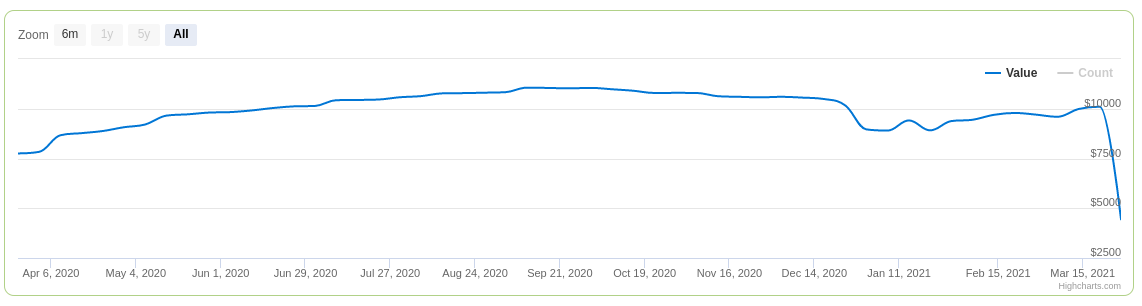
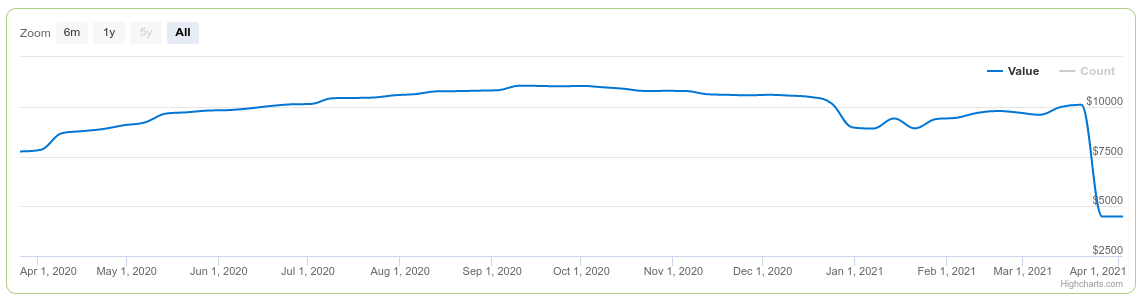
feat: hoarding project goes live

diff --git a/content/posts/20210321-hoarding-project.md b/content/posts/20210321-hoarding-project.md
@@ -1,9 +1,7 @@
 ---
 title: "The Hoarding Project"
 date: 2021-03-21T11:23:11-04:00
-draft: true
 toc: true
-#cover: "img/hoarding-project/emptyspace.jpg"
 description: "In this post, I discuss how I learned to let go of a collection that took its toll on me."
 tags:
   - collecting
@@ -19,10 +17,12 @@ that, I owned 200 musical albums, evenly split between CDs and vinyls discs, and
 
 {{< figure src="/img/hoarding-project/og-shelf.jpeg" position="center" caption="My collection proudly displayed in my first apartment" >}}
 
-When I was 16, if I had seen that picture online, I would have dreamed to live in that bedroom. But life sure
-has its ways. Now that I have experienced the reality of owning all of that stuff, I want to share the story
-of how I realized my collection was bringing me more pain than joy, and how I managed to let it all go (well,
-most of it).
+When I was 16, if I had seen that picture online, I would have dreamed to live in that bedroom. True story, I
+used to watch [John Hancock's Game Room Tours](https://www.youtube.com/watch?v=Bf2c1tlXwUU) and drool.
+
+However, life sure has its ways. Now that I have experienced the reality of owning all of that stuff, I want
+to share the story of how I realized my collection was bringing me more pain than joy, and how I managed to
+let it all go (well, most of it).
 
 # I owned a lot of stuff
 
@@ -55,13 +55,17 @@ first bedroom, here's the new space I could claim in the apartment (excluding ha
 
 {{< figure src="/img/hoarding-project/small-current-space.JPG" position="center" caption="My space as it was when we moved in. A drastic change! Cool keyboard, though." >}}
 
+Meanwhile, here's what part of my collection looked like when I moved in the apartment:
+
+{{< figure src="/img/hoarding-project/collection-in-bags.jpg" position="center" caption="Not so glamorous, is it?" >}}
+
 True story, for some months, I stored my entire collection next to my washing machine. Admittedly, not the
 sexiest storage strategy, but I needed to fit it somewhere...
 
 {{< figure src="/img/hoarding-project/games-next-to-washing-machine.jpg" position="center" >}}
 
 Eventually, I decided to buy a Billy bookcase to display my favorite items, but that also had its limits. It
-was double stacked all the time. Overall, the magic seemed lost.
+was double stacked all the time. Overall, the magic seemed lost, despite my best efforts to rekindle it.
 
 {{< figure src="/img/hoarding-project/billy-shelf.png" position="center" >}}
 
@@ -78,19 +82,69 @@ Another [video by Toy Galaxy about the stages of collecting](https://www.youtube
 hit the nail on the head for me. This all made me realize how ready I was for a change.
 
 To be fair, this process had already begun years ago. In 2018, I had already started selling what I considered
-"junk" in my collection. By "junk", I mean objects that I hadn't touched in over 3 years.
+"junk" in my collection. By "junk", I mean objects that I hadn't touched in over 3 years. None of this was in
+display in my Billy shelf, believe it or not...
 
-{{<figure src="/img/hoarding-project/first-bundle-sold.jpg" position="center" caption="Hard to believe that all of this was completely useless to me" >}}
+{{< figure src="/img/hoarding-project/first-bundle-sold.jpg" position="center" caption="Hard to believe that all of this was completely useless to me" >}}
 
+Eventually, I started contacting my collector friends on Facebook to see who was interested in the remaining
+stock I was willing to sell. Slowly, but surely, I shipped packages all over the province of Québec and met
+people in person to sell my games. That was the eureka moment: I brought joy to these people by ridding myself
+of stuff that made me unhappy (and, as a bonus, I made a bit of money). It was a win-win!
 
+{{< figure src="/img/hoarding-project/shipping-games.jpg" position="center" caption="I had never shipped so many packages at once!" >}}
 
-Still, it's interesting how much I learned through this journey. I learned a lot of video games facts, but I
-also learned so much more. I learned to make my own opinions. Believe it or not, I was once part of the group
-that wanted to fit in by saying [The Legend of Zelda: Ocarina of Time was the best game ever made by
-Nintendo](https://www.youtube.com/watch?v=ST3Bq4PJq50&feature=youtu.be). When that video was made, in 2008, I
-hadn't played more than a total of 2 hours of the game. I just assumed it was the best game, since everywhere
-I looked (for the longest time), the game came out on top all the time, even 10 years after its original
-release. Coincidentally, after giving it the time it deserves, I can safely say that the game is just not for
-me and even ranks as some of my least enjoyable gaming experiences. In my honest opinion, it's a slow, boring
-game that happens to be very stylish. Just the total opposite of what I'm looking for in a game: I like fun
-games that look bad.
+{{< figure src="/img/hoarding-project/selling-games-2.jpg" position="center" caption="I was especially proud of my Sega Genesis collection." >}}
+
+{{< figure src="/img/hoarding-project/selling-games.jpg" position="center" caption="Selling brought me joy.  Earthbound and Chrono Trigger (and so many more) are no longer my responsibility!" >}}
+
+{{< figure src="/img/hoarding-project/touching-back-of-shelf.jpg" position="center" caption="For the first time in years, I was able to touch the back of my Billy shelf!">}}
+
+It took a long time, but eventually I managed to separate myself from my most prized possessions. Games I grew
+up on. Games worth hundreds of dollars. With the little help of
+[MiSTer](posts/2020/10/dream-machine-mister-fpga), my original game cartridges became nothing more than fancy
+packaging. And since I'm all about function and not about packaging, this is when my mind was finally put at
+ease; all I was losing by purging my collection was the weight off my shoulder. Sometimes, losing is great!
+And I must admit that cataloguing services like [pricecharting.com](http://pricecharting.com) were a
+tremendous help to find fair prices for my items. It was exciting to see the value of my collection drop as I
+was confirming sales.
+
+{{< figure src="/img/hoarding-project/collection-value.png" position="center" >}}
+
+{{< figure src="/img/hoarding-project/playing-mister.png" position="center" caption="While the value of my belongings was dropping (due to selling them), I was happily enjoying my MiSTer" >}}
+
+Eventually, when my contacts on Facebook slowed down on the buying, I sold at a loss to [Retro MTL](https://retromtl.com). I wanted to
+get it over with, and I was happy to support their business. To be fair, [they did offer me a reasonable price.](/img/hoarding-project/cold-hard-cash.jpg)
+
+{{< figure src="/img/hoarding-project/final-bundle.jpg" position="center" caption="The final bundle! I am ready to enter a new chapter of my life." >}}
+
+{{< figure src="/img/hoarding-project/my-games-at-the-store.jpg" position="center" caption="My games in their new home" >}}
+
+{{< figure src="/img/hoarding-project/me-at-the-store.jpg" position="center" caption="Side plug, Retro MTL is a great store if you like collecting video games." >}}
+
+{{< figure src="/img/hoarding-project/what-is-left.jpg" position="center" caption="This is my collection 3.0: only the best of the best *to me* (and some PS2 games that a friend lent me, try to guess which ones!)" >}}
+
+Looking at the games that remain in my collection, I find it interesting to notice that, on average, I have
+only kept about 5-6 games per console.
+
+# Final thoughts
+
+I feel freer than I have ever felt before in regards to my possessions and my personal space. I feel more in
+control of my destiny. I feel like I own my possessions, instead of the other way around.
+
+{{< figure src="/img/hoarding-project/things-you-own.gif" position="center" caption="I had this quote stuck in my head for years." >}}
+
+I used to be afraid that by selling all my stuff, I would lose a part of who I am. In reality, I feel more
+like myself than I have in many years; I feel like, in some way, I managed to slightly reconnect with who I am
+at my core.
+
+My friends who still collect might disagree with my decision, but they appreciate the fact that I did this for
+my own good. They are not complaining about the friendly prices I gave them on some nice items, that's for
+sure! :smiley: In that sense, my fear of being alienated from my community by getting rid of my stuff was
+unfounded.
+
+I also ended up selling 90% of my vinyls, and am in the process of finding use to the majority of my CD
+collection. I now have more storage space than I know what to do with, and it honestly feels wonderful.
+
+There is something about retro video games that will stick to me forever. While I can't really pin down what
+that is, I now know that the physical objects themselves, for the most part, are not it.
